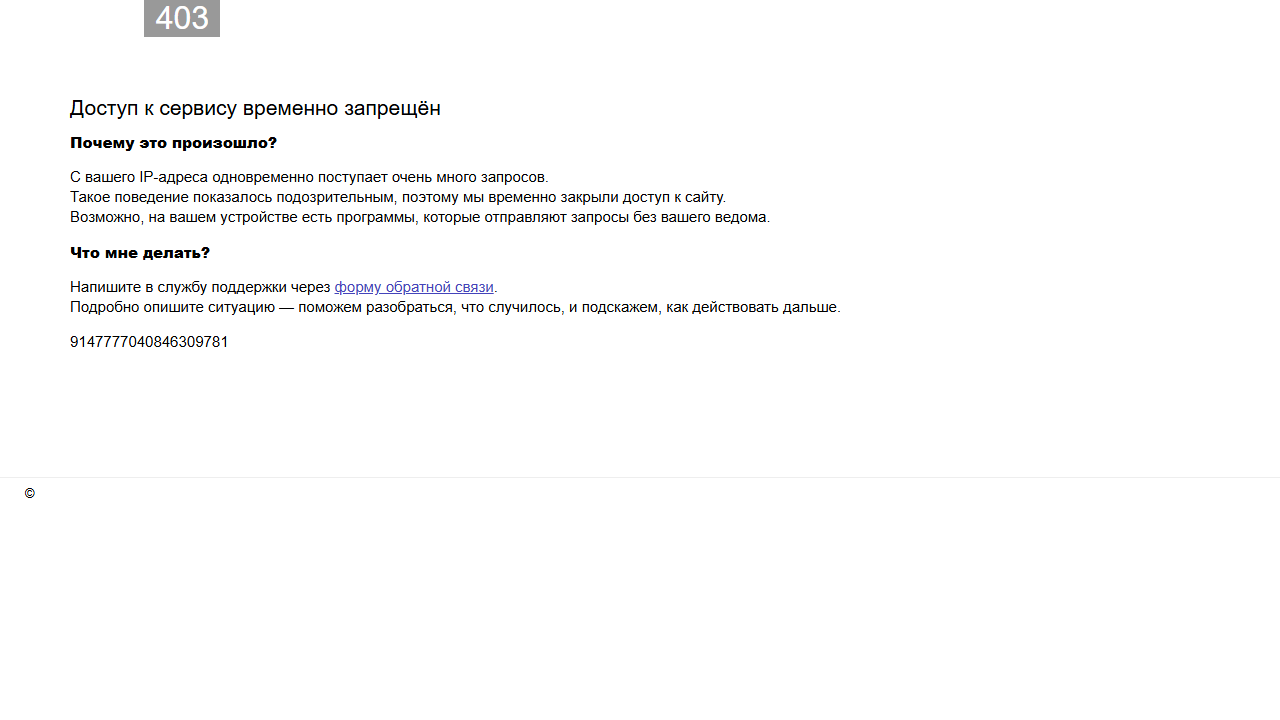
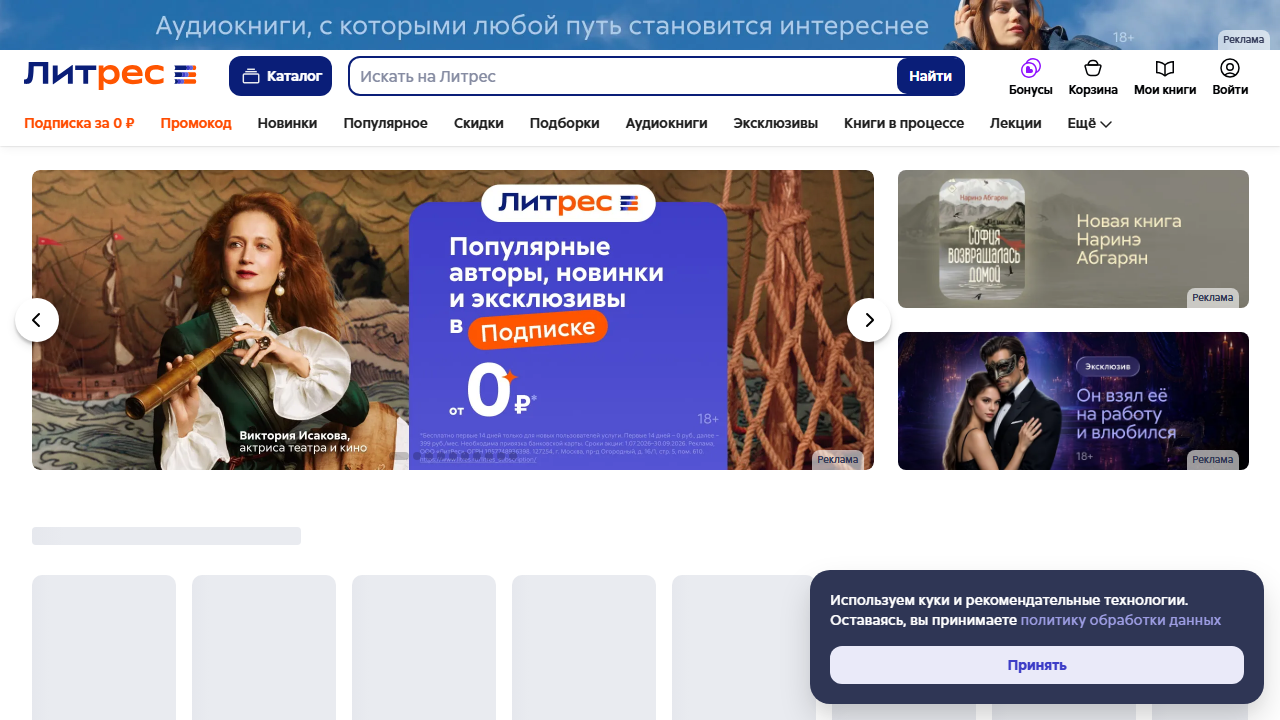
правка

diff --git a/async_aaa.py b/async_aaa.py
@@ -5,7 +5,7 @@ async def main():
     async with async_playwright() as p:
         browser = await p.chromium.launch()
         page = await browser.new_page()
-        await page.goto("https://lavk.yandex.ru/")
+        await page.goto("https://www.litres.ru/")
         await page.screenshot(path="FirstAsyncTest.png")
         await browser.close()
 

diff --git a/sync_aaa.py b/sync_aaa.py
@@ -3,7 +3,7 @@ from playwright.sync_api import sync_playwright
 with sync_playwright() as p:
     browser = p.chromium.launch(headless=False)
     page = browser.new_page()
-    page.goto("https://lavka.yandex.ru/")
+    page.goto("https://www.litres.ru/")
     page.screenshot(path="FirstTest.png")
     browser.close()
 
